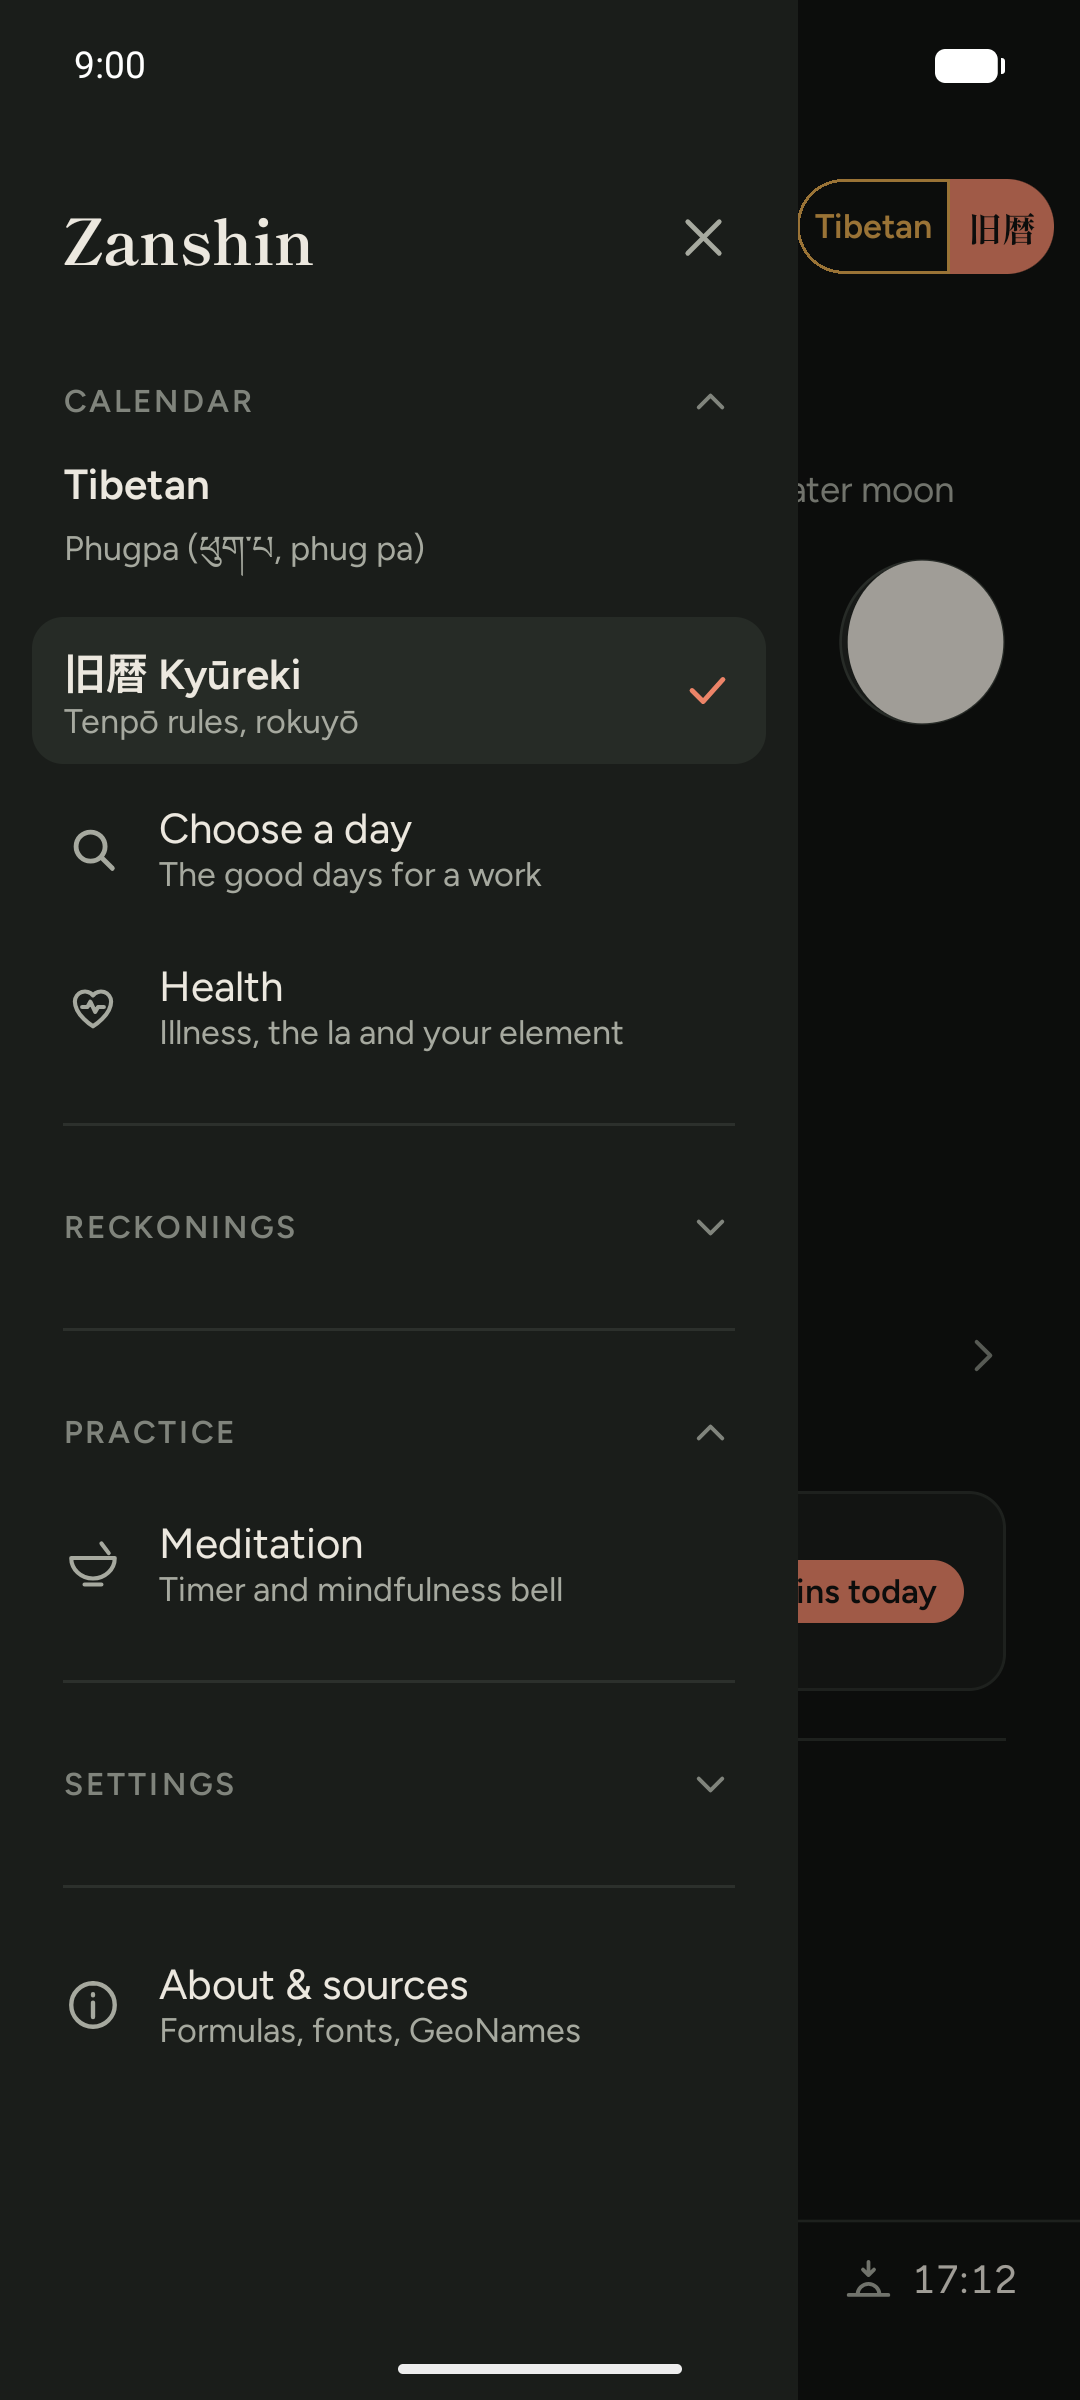
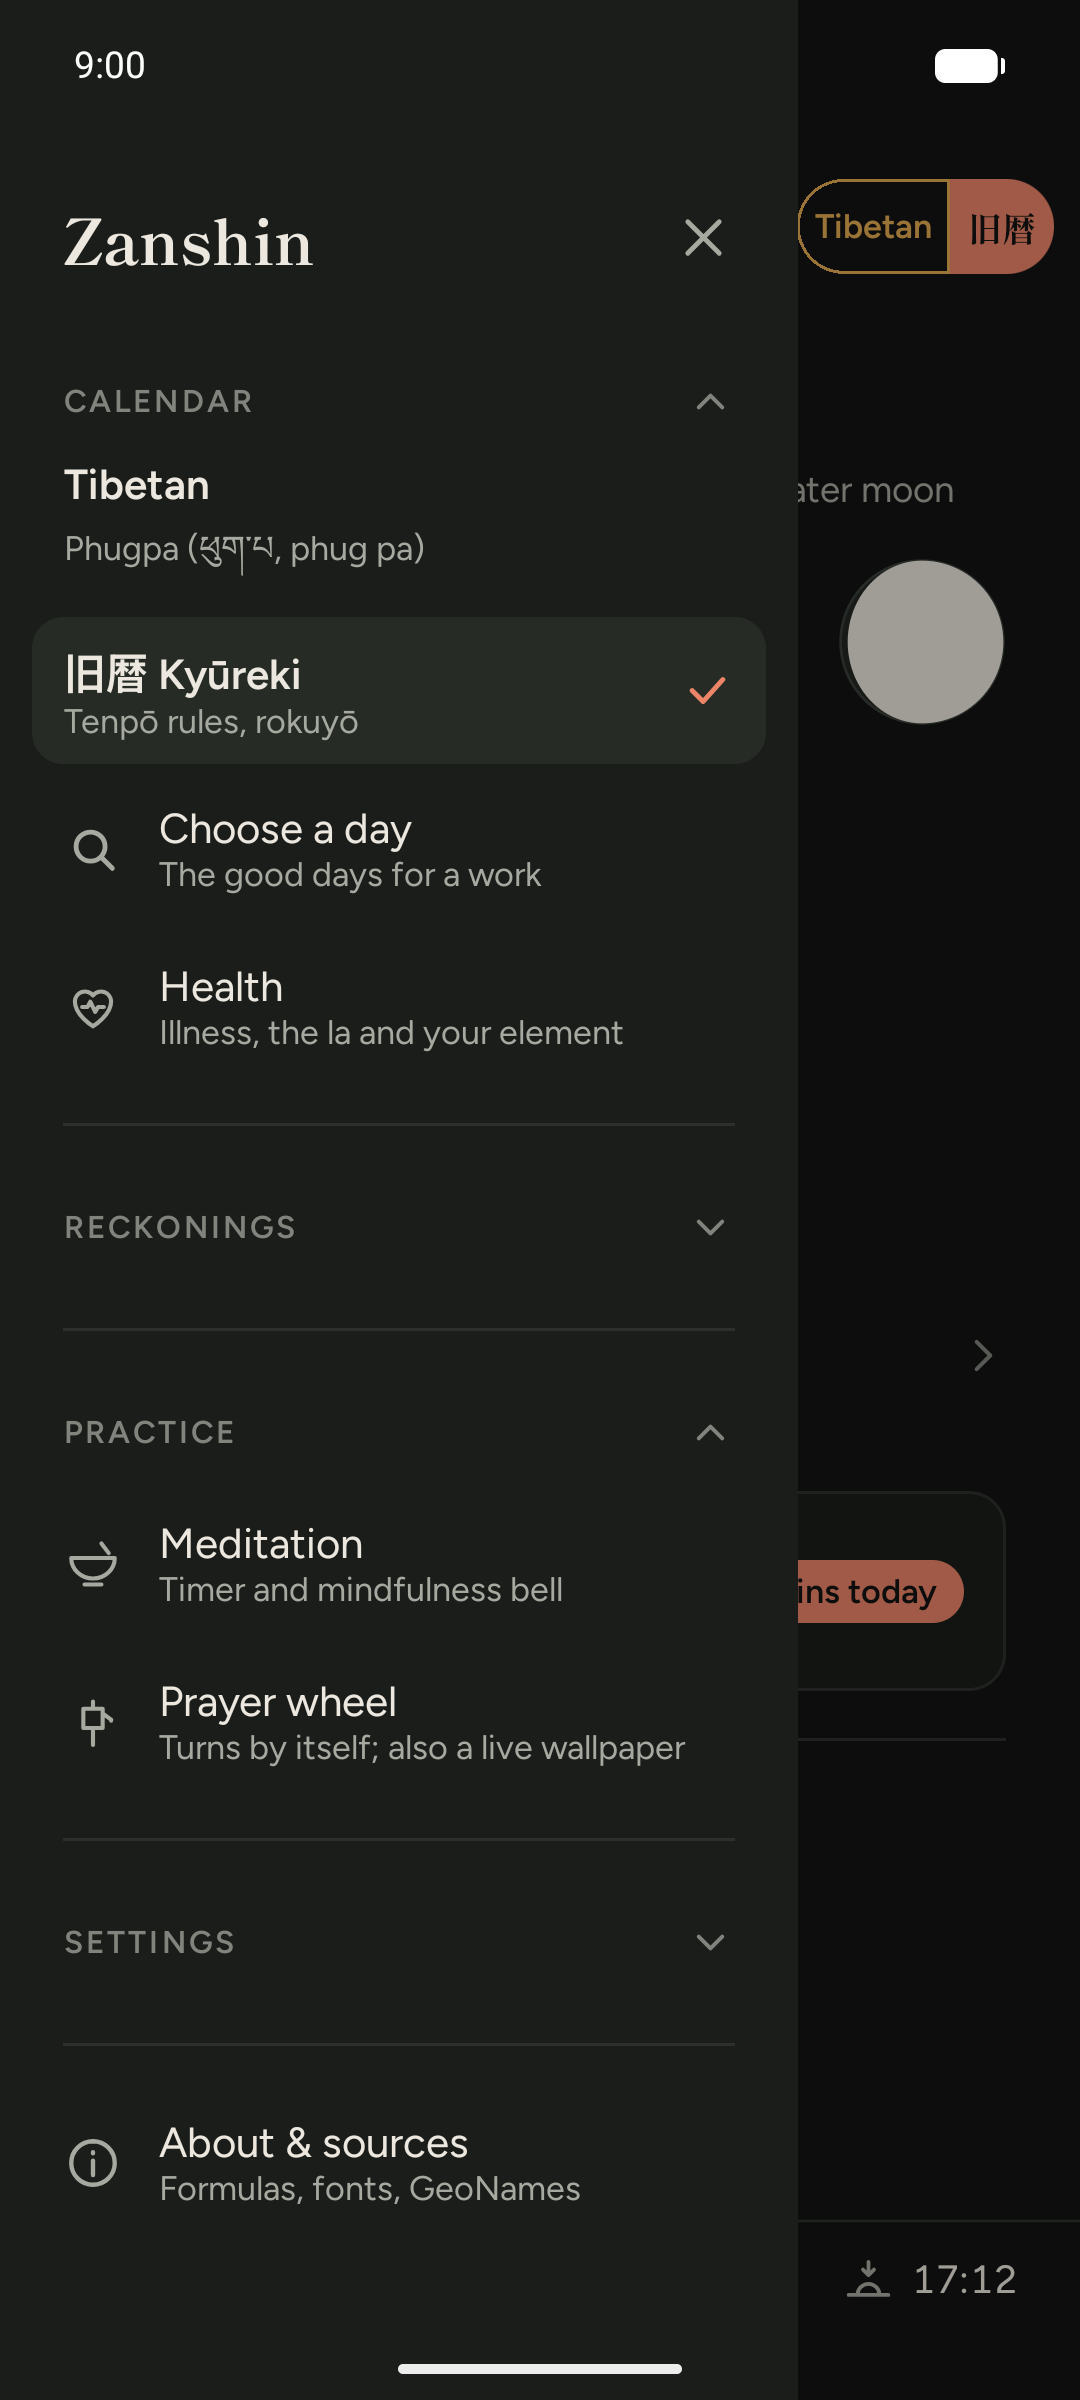
docs: the prayer wheel in the spec, the roadmap, the listing and the website
SPEC §10.12 and the menu; ROADMAP M2, block 64, with what was checked and
the direction's source still to read (Ladner) and the ornate wheel left
open; README, AGENTS.md and the app rule; a Prayer wheel part in both
listings; store_shots.py takes a tenth shot, shots 5 and 10 retaken in both
languages, captions in the website's data.

diff --git a/tools/emulator/store_shots.py b/tools/emulator/store_shots.py
@@ -2,7 +2,7 @@
 # This Source Code Form is subject to the terms of the Mozilla Public
 # License, v. 2.0. If a copy of the MPL was not distributed with this
 # file, You can obtain one at https://mozilla.org/MPL/2.0/.
-"""The nine store screenshots, in one language, on the emulator.
+"""The ten store screenshots, in one language, on the emulator.
 
 1. Tibetan day: Saga Dawa Düchen, 2027-06-18, a lucky day, in Lhasa
 2. 旧暦 day: 2026-10-23 (十三夜, 霜降 begins), in Kyoto
@@ -15,8 +15,9 @@
 8. Shot 1's day in the Paper theme (ROADMAP A1), the light page beside the seven in Ink
 9. The home screen with the small and the wide widget on shot 1's day (ROADMAP W1), placed there by
    emu.widgets() from the launcher's widget list
+10. The prayer wheel: Om mani padme hum on the drum, gold on black, the settings' defaults
 
-Shots 1 to 6, 8 and 9 set no birth date, so no personal rows appear. The status bar is put in demo
+Shots 1 to 6, 8, 9 and 10 set no birth date, so no personal rows appear. The status bar is put in demo
 mode (09:00, full battery, no signal icons). This image ignores demo mode's
 "hide notifications", and every clock change posts a "Clock change"
 notification, so the shade is cleared after each change. Demo mode is left
@@ -37,10 +38,10 @@ from pathlib import Path
 from emu import BIRTH_1976_06_01, KYOTO, LHASA, adb, nodes, prefs, language, restore, sh, start, up, widgets
 
 LABELS = {
-    "en": {"festival": r"^Saga Dawa Düchen$", "menu": r"[Mm]enu", "meditation": r"^Meditation$",
+    "en": {"festival": r"^Saga Dawa Düchen$", "menu": r"[Mm]enu", "meditation": r"^Meditation$", "wheel": r"^Prayer wheel$",
            "year": r"^Fire Horse year$", "year_of_age": r"year of age", "person": "Tenzin",
            "calendar": r"^CALENDAR$", "practice": r"^PRACTICE$"},
-    "ru": {"festival": r"^Сага Дава Дючен$", "menu": r"меню", "meditation": r"^Медитация$",
+    "ru": {"festival": r"^Сага Дава Дючен$", "menu": r"меню", "meditation": r"^Медитация$", "wheel": r"^Молитвенное колесо$",
            "year": r"Огонь-Лошадь$", "year_of_age": r"год жизни", "person": "Тензин",
            "calendar": r"^КАЛЕНДАРЬ$", "practice": r"^ПРАКТИКА$"},
 }
@@ -166,6 +167,14 @@ try:
     day("06180900", 2027, "TIBETAN", LHASA)
     widgets()
     shot(9)
+
+    # The wheel turns: it stands wherever the shot falls.
+    day("10230900", 2026, "KYUREKI", KYOTO)
+    tap_at(find(labels["menu"], desc=True))
+    tap_at(find(labels["practice"]))
+    tap_at(find(labels["wheel"]))
+    time.sleep(2)
+    shot(10)
 finally:
     demo("exit")
     sh("settings put global auto_time 1")

diff --git a/docs/SPEC.md b/docs/SPEC.md
@@ -43,6 +43,7 @@ command-line tool in §4 exists to develop and verify the engines, not to ship.
 | Local sky: sunrise, sunset, true solar noon and the sun's altitude at noon; moon-phase glyph | |
 | Screen with date navigation, home-screen widget, location setting; the morning notice, one a day with the day in brief (§10.5) | Other notifications |
 | Meditation timer and mindfulness bell, a screen of their own (§10.9) | |
+| Prayer wheel, a screen of its own and a live wallpaper (§10.12) | |
 | Texts from published sources only (§8) | Translations beyond English |
 
 Planned work, with its open questions, is in [ROADMAP.md](ROADMAP.md).
@@ -4089,7 +4090,7 @@ its stay, opening §53's reading with the course as a row. Each 干支
   as a full-height column, scrolling when it does not fit, in groups under
   small capital labels, a line between groups: **Calendar** (the two
   calendars, Choose a day and Health), **Reckonings** (the element
-  reckoning, §10.11), **Practice** (Meditation, §10.9),
+  reckoning, §10.11), **Practice** (Meditation, §10.9; Prayer wheel, §10.12),
   **Settings** (location, people, nine-star reading, language, theme,
   morning notice), and
   About & sources alone at the foot. About & sources lists the
@@ -4818,6 +4819,58 @@ Tibetan, and no reckoning in it is cast, as Mo is not (T4).
 - **Back** leads the way it came: from a reckoning to the list, or, from the year of age,
   when the year's balloon opened it, to the page; from the list out of
   the section.
+
+### 10.12 The prayer wheel
+
+A screen of its own (ROADMAP M2, built 2026-11-04), opened by "Prayer
+wheel" in the menu's Practice group, and the same wheel as a live
+wallpaper. The idea is that of an old wallpaper no longer kept up (Doo
+Reelkow's *Prayer wheel live wallpaper*, last built 2014); nothing of it is
+used, and the app stays without a sound or picture file: the wheel is the
+bundled Noto Serif Tibetan drawn on a plain canvas (`app/.../wheel/`), no
+OpenGL.
+
+- **The wheel:** the mantra in its Tibetan script alone (the owner's
+  choice, as the bell's message in §10.9), with no drum, frame or
+  ornament drawn. Nothing on the screen says what turning a wheel
+  does: no such text has a source in the pool (§8).
+- **Mantras:** seven, named by whose they are (Avalokiteśvara,
+  Padmasambhava, Tārā, Mañjuśrī, Vajrapāṇi, the Medicine Buddha,
+  Śākyamuni), each as printed on a page read on the scan
+  ([sources/claims/wheel-mantras.md](sources/claims/wheel-mantras.md)):
+  Mañjuśrī's from WB, the Medicine Buddha's the Four Tantras' full form,
+  Padmasambhava's from the prayer of 'Jam dbyangs mkhyen brtse'i dbang po (འཇམ་དབྱངས་མཁྱེན་བརྩེའི་དབང་པོ), the others Mipham's, Vajrapāṇi's so
+  without the closing phaṭ (ཕཊ, phaT); and a line of the user's own in any script, up to 120
+  characters, the user's text as in §10.9; left empty the first mantra
+  stands.
+- **Form:** a **drum** seen from the side, the script bent over its
+  curve and fading towards the edges, or a **ring** seen from above, each
+  piece of the line whole and upright at the ring's foot. The mantra
+  goes round as many times as keeps the script within the canvas and,
+  on a ring, clear of the centre and flat pieces on the curve.
+- **Turning:** one turn in thirty seconds by itself, clockwise seen from
+  above: a drum's front runs from right to left, a ring turns clockwise on
+  the screen with its line reading anticlockwise, so that on both the
+  syllables pass any one point in their order. A finger with the wheel
+  speeds it, up to two turns a second, and it eases back with a time
+  constant of 5 s; a finger against it only brakes it, down to a stop,
+  from which it takes up the slow turn: it never runs backwards
+  (`WheelMotion`). On a drum a finger counts along x, on a ring around
+  the centre.
+- **Colours:** six for the script and six for the ground, every pair
+  standing 4.5:1 (`WheelTest`), so no choice hides the mantra; gold on
+  black by default. The screen's frame keeps the app's theme.
+- **Wallpaper:** "Set as wallpaper" opens Android's own page for it. It
+  shows what the screen has chosen, at once when that changes, and draws
+  only while seen, at about thirty frames a second at the slow turn; a
+  finger on the home screen and the turning of its pages speed it. The
+  button is hidden where a phone has no live wallpapers
+  (`android.software.live_wallpaper`, not required). Android drops a
+  live wallpaper when its app is force-stopped.
+- The screen stays open through a turn of the phone (§10.1): wider than
+  tall, the wheel stands beside its settings. No permission is added:
+  `BIND_WALLPAPER` guards the service against other apps, it is not asked
+  of the user (§2).
 
 ## 11. Milestones and done criteria
 

diff --git a/.agents/rules/app.md b/.agents/rules/app.md
@@ -13,9 +13,9 @@ paths:
 
 # The app, the engines and the CLI
 
-`app/` is Compose UI. Package `zanshin.app`, application id and `R` namespace `io.github.iverlein.zanshin`; interface text in `res/values/strings.xml`, translations in `res/values-<lang>/` (Weblate, [docs/weblate.md](docs/weblate.md)), checked by `src/test/.../TranslationsTest.kt`. `bell/`: the meditation timer's service, the mindfulness bell's alarms and its ring service with the bell's notice, the synthesised bells (SPEC §10.9) and the morning notice's alarm and notification (`MorningNotice`, SPEC §10.5), tested by `BellTest`. `widget/`: the home-screen widget (`DayWidget`, SPEC §10.6), plain RemoteViews drawn by its own alarm, `WidgetTest` for its times; every row's visibility is set on each update, since the launcher applies an update to the views it already holds.
+`app/` is Compose UI. Package `zanshin.app`, application id and `R` namespace `io.github.iverlein.zanshin`; interface text in `res/values/strings.xml`, translations in `res/values-<lang>/` (Weblate, [docs/weblate.md](docs/weblate.md)), checked by `src/test/.../TranslationsTest.kt`. `bell/`: the meditation timer's service, the mindfulness bell's alarms and its ring service with the bell's notice, the synthesised bells (SPEC §10.9) and the morning notice's alarm and notification (`MorningNotice`, SPEC §10.5), tested by `BellTest`. `wheel/`: the prayer wheel (SPEC §10.12): `WheelPlan` the turning and layout without Android, tested by `WheelTest`, `WheelPainter` one canvas painter for the screen and the wallpaper, `WheelWallpaper` the live wallpaper; a test that force-stops the app drops the wallpaper. `widget/`: the home-screen widget (`DayWidget`, SPEC §10.6), plain RemoteViews drawn by its own alarm, `WidgetTest` for its times; every row's visibility is set on each update, since the launcher applies an update to the views it already holds.
 
-`tools/emulator/` drives the app on the `zanshin-test` emulator: `emu.py` (preferences, also into the release build by root, language, taps by on-screen text, screenshots with their text, the two widgets placed on the home screen), `tour.py` (a fixed tour to compare two builds), `russian_tour.py` (the language switch and a Russian read-through), `store_shots.py` (the nine store screenshots in one language), `scales.py` (both pages and the screens at font scales 1.0 to 2.0, in landscape and at a tablet's 800 dp, SPEC §10.1).
+`tools/emulator/` drives the app on the `zanshin-test` emulator: `emu.py` (preferences, also into the release build by root, language, taps by on-screen text, screenshots with their text, the two widgets placed on the home screen), `tour.py` (a fixed tour to compare two builds), `russian_tour.py` (the language switch and a Russian read-through), `store_shots.py` (the ten store screenshots in one language), `scales.py` (both pages and the screens at font scales 1.0 to 2.0, in landscape and at a tablet's 800 dp, SPEC §10.1).
 
 ## Rules
 

diff --git a/docs/ROADMAP.md b/docs/ROADMAP.md
@@ -122,6 +122,7 @@ moves up as soon as it is unblocked.
 | <a id="block-61"></a>61 | [R6](#r6) Ch. 27's small reckonings by the year — built 2026-10-31 | — (read: RD38, RD51, RD89, RD90) | [28](#block-28) | Build block 61: R6, the small reckonings of ch. 27 pp. 16–17 and 20 in a view of their own, stepped by year: the four starting points of p. 17, the la's wandering and decline, the grave entered, the end of the womb, the birth by the year's power. |
 | <a id="block-62"></a>62 | [R7](#r7) The rounds by age of pp. 18–19 — built 2026-10-31 | — (read: RD38, RD51, RD90) | [61](#block-61) | Build block 62: R7, the rounds by age of ch. 27 pp. 18–19 in the small reckonings, the man's or the woman's: their cuts and the signs as printed. |
 | <a id="block-63"></a>63 | [R8](#r8) The reckonings of the time of asking — built 2026-10-31 | — (read: RD38, RD51) | [62](#block-62) | Build block 63: R8, Brahmā's month for one gone abroad and the signs of the time of asking (ch. 27 pp. 13–14, 19) on the moment's view. |
+| <a id="block-64"></a>64 | [M2](#m2) The prayer wheel: a screen and a live wallpaper — built 2026-11-04 | — (the mantras: claims/wheel-mantras.md) | [M1](#m1) | Build block 64: M2, the prayer wheel on a screen of its own and as a live wallpaper. |
 
 ## Readings
 
@@ -2172,6 +2173,29 @@ Java of the Google Code era, and its one sound file names no source.
   after Stop, off once the back arrow left the screen and when it was
   opened again; never on with the switch off; the switch stored on tap,
   shown in English and Russian.
+
+### <a id="m2"></a>M2. The prayer wheel — built 2026-11-04 (SPEC §10.5, §10.12)
+
+The owner's request of 2026-11-04, after an old live wallpaper no longer
+offered on current Android: a screen in the Practice group and a live
+wallpaper, one painter for both. Its forms and colours (the owner's
+answers the same day): both a drum and a ring, the colours to choose;
+several mantras, not one; a slow turn by itself that a flick speeds and a
+finger against only brakes.
+
+- **Checked on the emulator** (Android 17): both forms and every mantra
+  in English and Russian, an own line, font scale 2.0 and landscape in both,
+  a turn of the phone keeping the screen; the wallpaper set through
+  Android's page, its speed logged at rest (no speed-up), under a flick
+  (3.6 rad/s) and a page swipe (the most, 12.5 rad/s), no frames while an
+  app covers it, a change of colours reaching it at once. `WheelTest`
+  holds the turning, the layout and the colours' contrast.
+- **Direction:** the pool has no passage on it. Clockwise is the common
+  account of turning a wheel; that the syllables pass in their order
+  follows from the geometry. Ladner's *The Wheel of Great Compassion*
+  (Wisdom, 2000) is the book to read it in, not yet read.
+- **Left open:** an ornate wheel, a drum with its rim and body drawn, as
+  a third form (the owner: "maybe in future").
 
 ## UX
 

diff --git a/AGENTS.md b/AGENTS.md
@@ -32,7 +32,7 @@ goes into the rule file for its paths, or here when no path catches it.
 | `core/` | Pure Kotlin/JVM engines: `tibetan/`, `kyureki/`, `astro/`, `rational/`, `time/`. No Android, no dependencies. Test vectors in `core/src/test/resources/vectors/` (third-party tables gitignored; tests that need a missing file are skipped). |
 | `core/src/main/resources/texts/` | The catalog: names of the terms, reading summaries and list wordings, one `texts_<language>.properties` per translation (SPEC §8.2). |
 | `cli/` | Desktop tool to print a day, a kyūreki sui, a Tibetan year or the election for a work. |
-| `app/` | Compose UI. Package `zanshin.app`, application id `io.github.iverlein.zanshin`; interface text in `res/values/strings.xml`, translations via Weblate ([docs/weblate.md](docs/weblate.md)); `bell/` the meditation timer and mindfulness bell (SPEC §10.9), and the morning notice on its alarms (§10.5); `widget/` the home-screen widget in two sizes (§10.6). |
+| `app/` | Compose UI. Package `zanshin.app`, application id `io.github.iverlein.zanshin`; interface text in `res/values/strings.xml`, translations via Weblate ([docs/weblate.md](docs/weblate.md)); `bell/` the meditation timer and mindfulness bell (SPEC §10.9), and the morning notice on its alarms (§10.5); `widget/` the home-screen widget in two sizes (§10.6); `wheel/` the prayer wheel's turning, painter and live wallpaper (§10.12). |
 | `fastlane/metadata/android/` | F-Droid store listing per language: texts, icon, screenshots, `changelogs/<versionCode>.txt`. |
 | `website/` | Hugo site, English and Russian, deployed to the VPS by `.github/workflows/website.yml` on pushes to `main`; reads its texts from the `fastlane/` listings. |
 | `docs/sources/` | The knowledge pool behind the readings: one topic per file, growing into the layers of `STRUCTURE.md` (`corpus/`, `claims/`, `questions/`, the registry `sources.yaml`, indexed by `tools/sources/kb.py`), `wb-contents.md`, `PLAN.md` (how to read and record), `PROTOCOL.md` (readings in parallel; the `readings` skill in `.claude/skills/`, and `sources`, the method of finding and recording facts in the pool); `docs/ROADMAP.md` *Readings* lists what is still to be read. |

diff --git a/README.md b/README.md
@@ -8,6 +8,7 @@ readings of that day and sunrise, solar noon and sunset for your place.
 <img src="fastlane/metadata/android/en-US/images/phoneScreenshots/2.png" width="220" alt="Japanese day: 十三夜">
 <img src="fastlane/metadata/android/en-US/images/phoneScreenshots/4.png" width="220" alt="Japanese almanac annotations">
 <img src="fastlane/metadata/android/en-US/images/phoneScreenshots/6.png" width="220" alt="Meditation timer: a zazen of 20, 10 and 30 minutes">
+<img src="fastlane/metadata/android/en-US/images/phoneScreenshots/10.png" width="220" alt="Prayer wheel: a mantra in gold on a turning drum, with the mantras to choose from below">
 
 - **Tibetan:** lunar day, month and year with skipped and doubled days and
   leap months; festivals and monthly observances; lunar mansion, yoga,
@@ -84,6 +85,10 @@ readings of that day and sunrise, solar noon and sunset for your place.
   day, at fixed or random times within set hours, showing a message of
   your own while it rings. The bells are
   synthesised on the phone, so no sound file is bundled.
+- **Prayer wheel:** a mantra in Tibetan script alone, seven to choose
+  from or a line of your own, on a drum or a ring in the colours you
+  choose, turning slowly by itself; a flick speeds it, a finger against it
+  brakes it. Also a live wallpaper, the same wheel on the home screen.
 - Every Tibetan term and kanji shows its English on tap; every reading comes
   from a published source, listed in About & sources.
 - Six themes: Ink (dark, the default), Paper (light), Night (black, for
